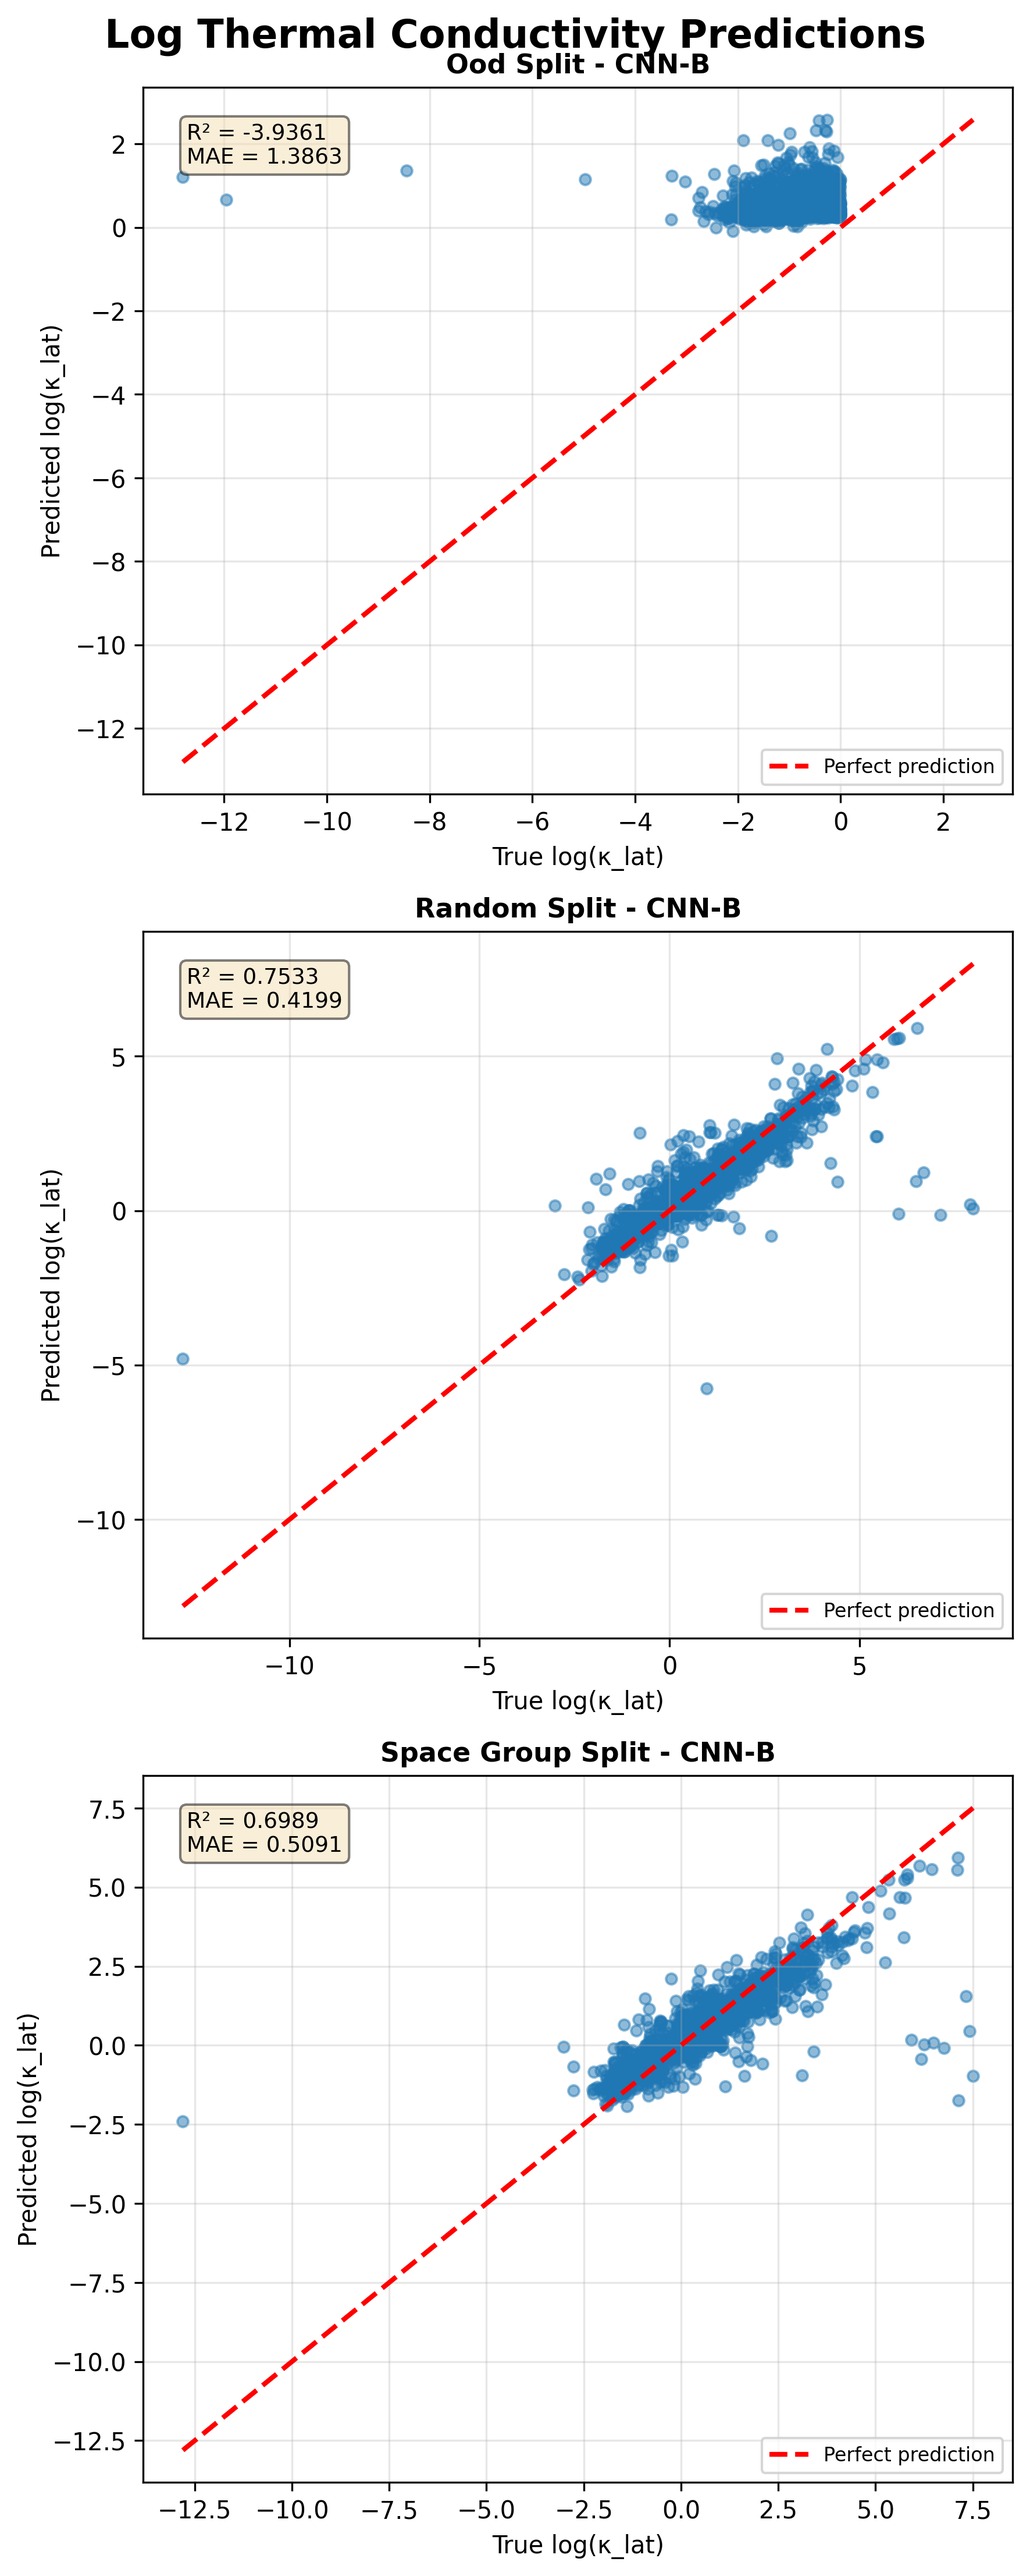
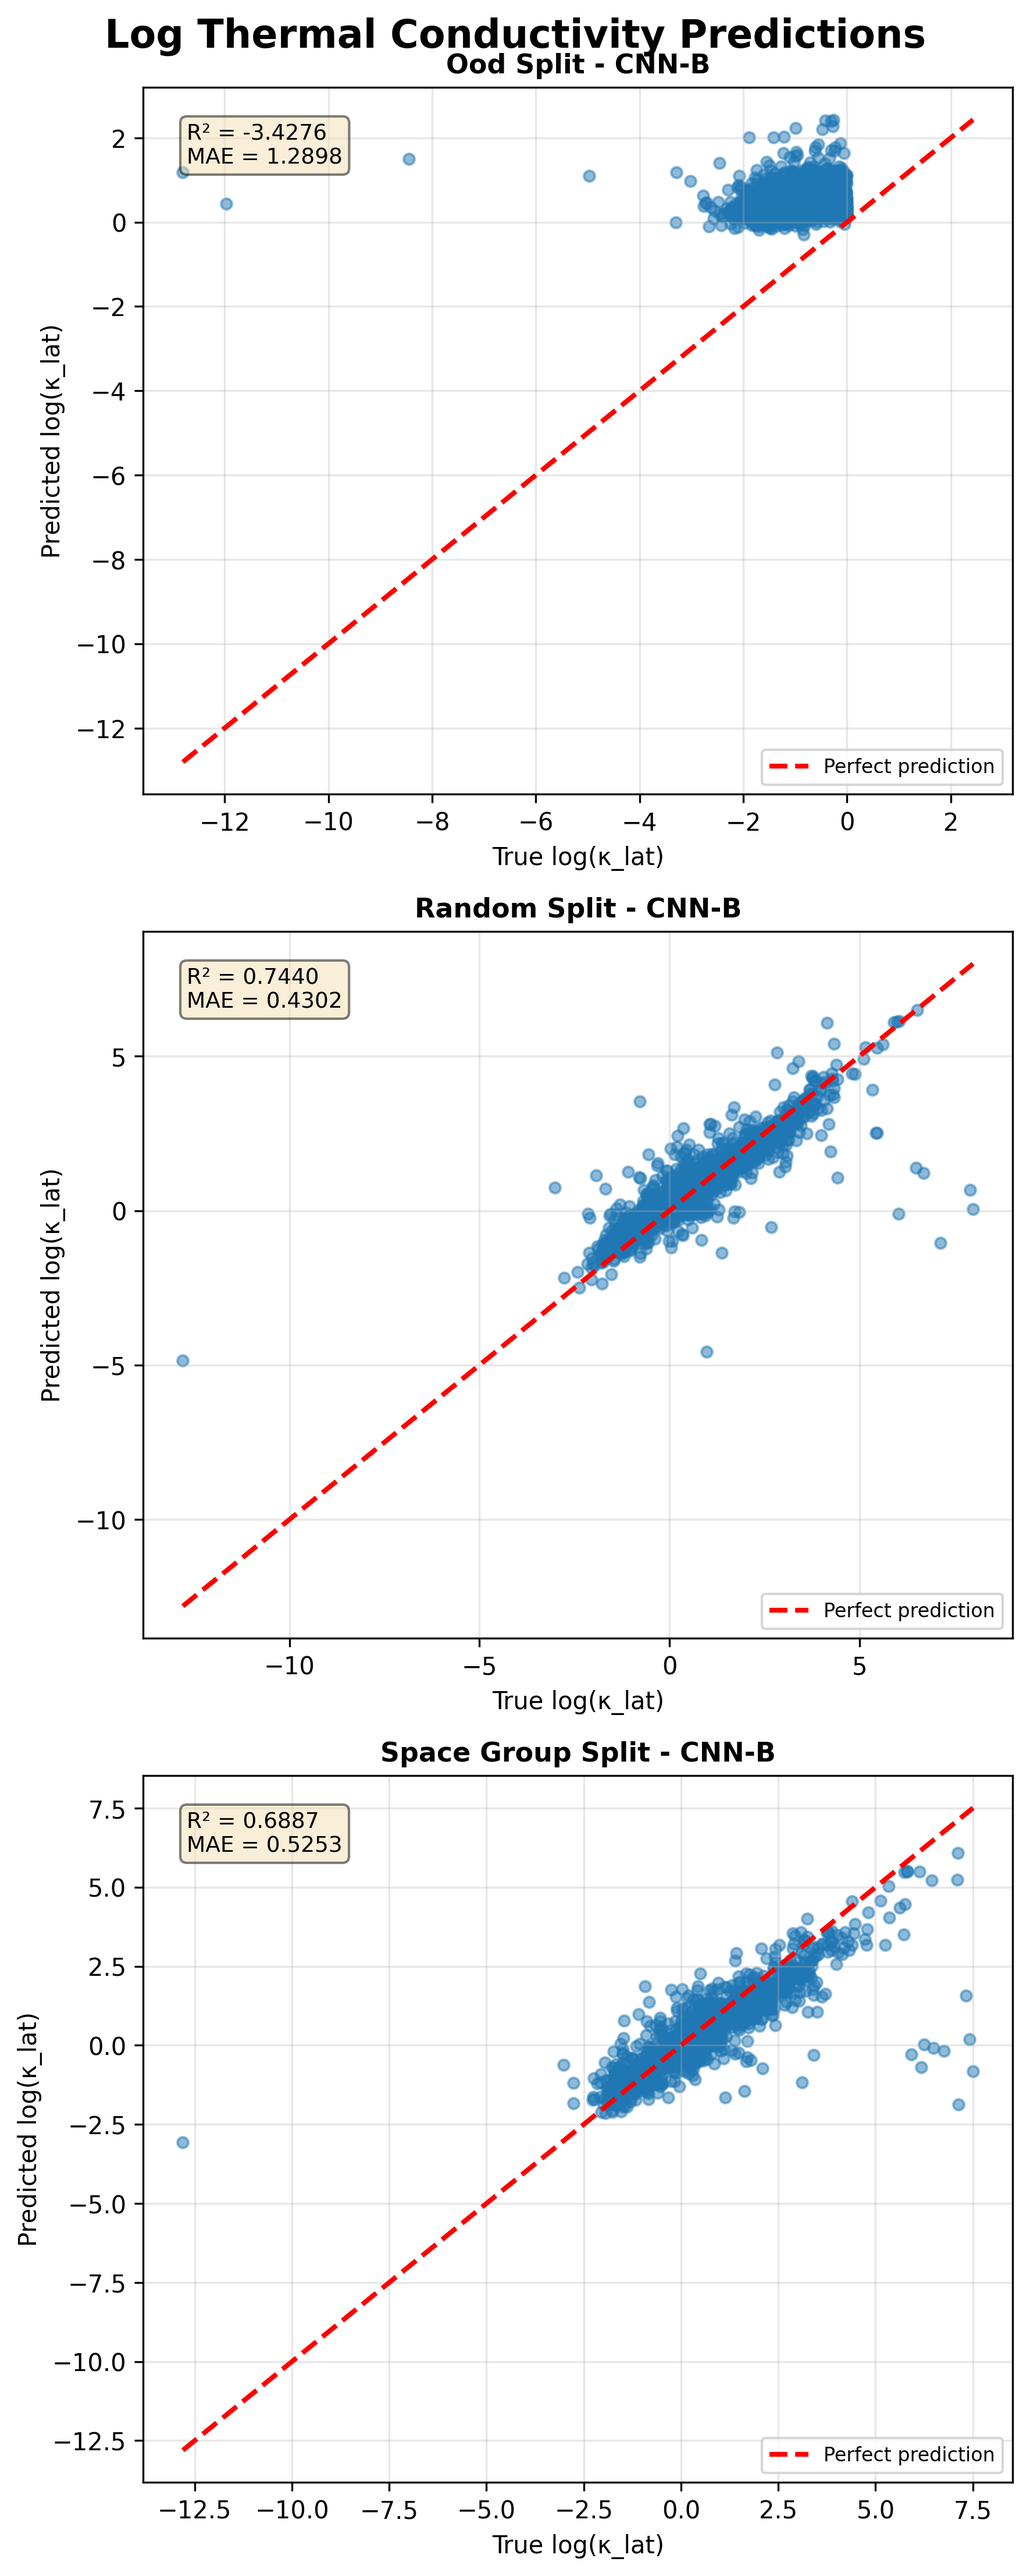
update code to be compliant to windows

diff --git a/embedding_regression.py b/embedding_regression.py
@@ -44,7 +44,7 @@ except ImportError:
     print("Warning: TabPFN not available. TabPFN model will not be available.")
     print("Install with: pip install tabpfn")
 
-
+#TABPFN_AVAILABLE = False
 # Set random seeds for reproducibility
 RANDOM_SEED = 42
 torch.manual_seed(RANDOM_SEED)
@@ -1064,19 +1064,57 @@ def main():
     print(f"Weighted loss (focus on log(κ) < 1): {args.weighted_loss}")
     print('='*80)
     
-    # Setup device
-    device = torch.device("cuda" if torch.cuda.is_available() else "cpu")
-    print(f"\nUsing device: {device}")
+    # Setup device with CUDA compatibility check
+    def test_cuda_compatibility():
+        """Test if CUDA is available and compatible."""
+        if not torch.cuda.is_available():
+            return False, "CUDA not available"
+
+        try:
+            # Test basic CUDA operations
+            device = torch.device("cuda")
+            x = torch.randn(10, 10).to(device)
+            y = torch.arange(100, device=device)
+            _ = x @ x.T
+            _ = y.sum()
+            return True, "CUDA compatible"
+        except Exception as e:
+            return False, f"CUDA error: {str(e)[:100]}..."
+
+    cuda_ok, cuda_msg = test_cuda_compatibility()
+
+    if cuda_ok:
+        device = torch.device("cuda")
+        print(f"\nUsing device: {device}")
+    else:
+        device = torch.device("cpu")
+        print(f"\nCUDA compatibility issue: {cuda_msg}")
+        print(f"Using device: {device} (CPU fallback)")
     
     # Load ORB model
     print("\nLoading orb-v3-conservative-20-omat model...")
-    orbff = pretrained.orb_v3_conservative_20_omat(
-        device=device,
-        precision="float32-highest",
-        compile=False  # Disable compilation to avoid C++ compiler requirement
-    )
+    try:
+        orbff = pretrained.orb_v3_conservative_20_omat(
+            device=device,
+            precision="float32-highest",
+            compile=False  # Disable compilation to avoid C++ compiler requirement
+        )
+        print("Model loaded successfully!")
+    except Exception as e:
+        if "cuda" in str(e).lower():
+            print(f"CUDA error loading model: {e}")
+            print("Attempting to load on CPU...")
+            device = torch.device("cpu")
+            orbff = pretrained.orb_v3_conservative_20_omat(
+                device=device,
+                precision="float32-highest",
+                compile=False
+            )
+            print("Model loaded successfully on CPU!")
+        else:
+            raise e
+
     orbff.eval()
-    print("Model loaded successfully!")
     
     # Data splits to process
     splits = args.splits

diff --git a/README.md b/README.md
@@ -2,6 +2,10 @@
 
 This repository contains three distinct train/test splits for thermal conductivity prediction models, generated from Materials Project data.
 
+## ⭐ Best Model: CNN-B
+
+**CNN-B (sequence embeddings) is the recommended model** for thermal conductivity prediction. It processes per-atom embeddings with masked global pooling, achieving superior performance across all data splits (random, space group, and out-of-distribution splits). CNN-B effectively handles variable-length crystal structures and captures atomic-level patterns that are critical for thermal conductivity prediction.
+
 ## Overview
 
 Three splits are provided:
@@ -51,11 +55,46 @@ Each split pickle file contains:
 
 ## Installation
 
+### 1. Install Base Dependencies
+
 ```bash
 pip install -r requirements.txt
 ```
 
-### Optional: Materials Project API
+### 2. Install PyTorch
+
+**Important**: PyTorch installation depends on your CUDA version. Install the appropriate version:
+
+- **With CUDA support**: Visit [PyTorch installation page](https://pytorch.org/get-started/locally/) and select your CUDA version
+- **CPU only**: `pip install torch --index-url https://download.pytorch.org/whl/cpu`
+
+**Note**: Ensure PyTorch CUDA version matches your GPU driver. If you encounter CUDA errors, see the Troubleshooting section.
+
+### 3. Install ORB Models (Required for Embedding Extraction)
+
+The script uses `orb-models` to extract embeddings from crystal structures. Install it using:
+
+```bash
+pip install orb-models
+```
+
+**Note**: The ORB model (`orb-v3-conservative-20-omat`) will be automatically downloaded on first use. This requires internet connection and may take several minutes depending on your connection speed.
+
+### 4. Optional: Install Additional Model Dependencies
+
+#### For CGCNN (Graph Neural Network):
+```bash
+pip install torch-geometric
+```
+
+#### For TabPFN (Tabular Transformer):
+```bash
+pip install tabpfn
+```
+
+**Note**: Both CGCNN and TabPFN are optional. If not installed, the script will skip these models with a warning.
+
+### 5. Optional: Materials Project API
 
 To fetch additional properties (formation energy, band gap, elasticity):
 
@@ -72,7 +111,142 @@ Without API key, additional properties will be `None` (structures still availabl
 python data_spilit.py
 ```
 
-### Load Data
+### Train Models with MLIP Embeddings
+
+The `embedding_regression.py` script extracts embeddings from ORB models and trains various architectures (CNN-A, CNN-B, CGCNN, TabPFN) to predict thermal conductivity.
+
+#### Quick Start: Train CNN-B on All Splits (Recommended)
+
+The simplest command to train CNN-B (the best model) on all three splits:
+
+```bash
+python embedding_regression.py --model CNN-B
+```
+
+**Note**: The script now automatically detects CUDA compatibility issues and falls back to CPU mode if needed. No additional wrapper scripts are required for most users.
+
+Or explicitly specify all splits:
+
+```bash
+python embedding_regression.py --model CNN-B --splits ood_split random_split space_group_split
+```
+
+#### CLI Command Reference
+
+**Basic Usage:**
+```bash
+python embedding_regression.py [OPTIONS]
+```
+
+**Available Options:**
+
+- `--model`: Model to train
+  - `CNN-A`: Aggregated embeddings (mean + max pooling)
+  - `CNN-B`: Per-atom sequence embeddings with masked pooling  **Best**
+  - `CGCNN`: Crystal Graph Convolutional Neural Network (requires `torch-geometric`)
+  - `TabPFN`: Tabular transformer using masked statistics (requires `tabpfn`)
+  - `all`: Train all available models (default)
+
+- `--splits`: Data splits to process (space-separated)
+  - `ood_split`: Out-of-distribution split
+  - `random_split`: Random 80/20 split
+  - `space_group_split`: Space group disjoint split
+  - Default: all three splits
+
+- `--use-properties`: Enable material properties as additional features
+  - Includes: formation energy, e_above_hull, band gap, elasticity_K_VRH, elasticity_G_VRH
+
+- `--ood-scaler`: Scaler type for OOD split properties
+  - `robust`: RobustScaler (default, handles outliers better)
+  - `standard`: StandardScaler
+  - `minmax`: MinMaxScaler
+
+- `--weighted-loss`: Use weighted loss focusing on log(κ) < 1
+
+#### Example Commands
+
+**1. Train CNN-B on all splits (recommended):**
+```bash
+python embedding_regression.py --model CNN-B
+```
+
+**2. Train CNN-B with material properties:**
+```bash
+python embedding_regression.py --model CNN-B --use-properties
+```
+
+**3. Train CNN-A only:**
+```bash
+python embedding_regression.py --model CNN-A --splits random_split
+```
+
+**4. Train all models on OOD split:**
+```bash
+python embedding_regression.py --model all --splits ood_split
+```
+
+**5. Train CGCNN with properties:**
+```bash
+python embedding_regression.py --model CGCNN --use-properties
+```
+
+**6. Train TabPFN on all splits:**
+```bash
+python embedding_regression.py --model TabPFN
+```
+
+**7. Train CNN-B with weighted loss (focus on low κ):**
+```bash
+python embedding_regression.py --model CNN-B --weighted-loss
+```
+
+#### Output
+
+The script generates:
+- **Console output**: Training progress, validation metrics, and summary table
+- **Cache files**: Extracted embeddings saved in `cache/` directory (reused on subsequent runs)
+- **Visualization**: `thermal_conductivity_predictions.png` with scatter plots for all model/split combinations
+- **Metrics**: R² and MAE scores printed for each model and split
+
+#### Performance Notes
+
+- **First run**: Embedding extraction takes time (cached for future runs)
+- **GPU recommended**: Training is faster on CUDA-enabled GPUs
+- **Memory**: CGCNN and TabPFN require more memory; TabPFN has sample/feature limits
+
+#### Troubleshooting
+
+**CUDA Compatibility Issues:**
+
+The script now automatically detects CUDA compatibility issues and falls back to CPU mode. If you encounter CUDA errors, the script will:
+
+1. **Automatically test CUDA** when it starts
+2. **Fall back to CPU** if CUDA operations fail
+3. **Continue execution** on CPU (slower but compatible)
+
+For manual control, you can also:
+
+1. **Force CPU mode** (if needed):
+   ```bash
+   # Set environment variable to use CPU
+   set CUDA_VISIBLE_DEVICES=-1
+   python embedding_regression.py --model CNN-B
+   ```
+
+2. **Reinstall PyTorch with correct CUDA version**:
+   - Check your CUDA version: `nvidia-smi`
+   - Install matching PyTorch: https://pytorch.org/get-started/locally/
+   - Example for CUDA 11.8:
+     ```bash
+     pip install torch torchvision torchaudio --index-url https://download.pytorch.org/whl/cu118
+     ```
+
+3. **Use CPU-only PyTorch**:
+   ```bash
+   pip install torch --index-url https://download.pytorch.org/whl/cpu
+   ```
+
+### Load Data (Python API)
 ```python
 import pickle
 import pandas as pd
